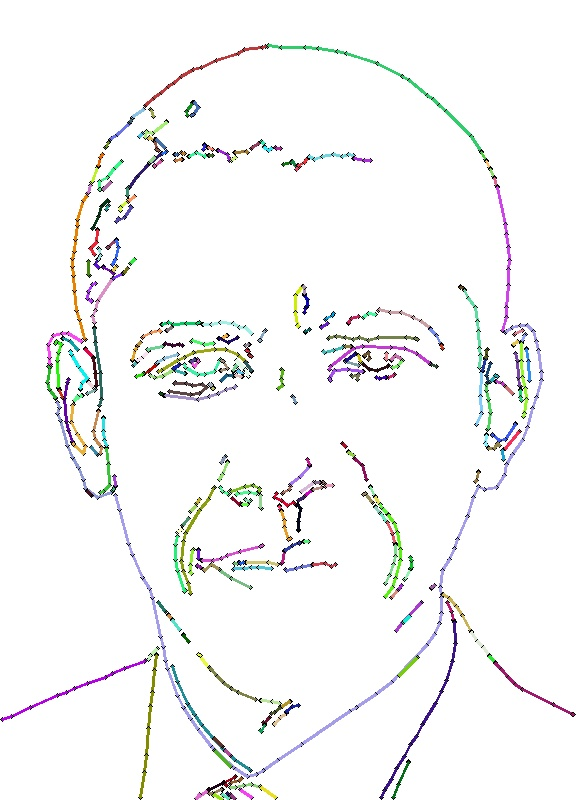
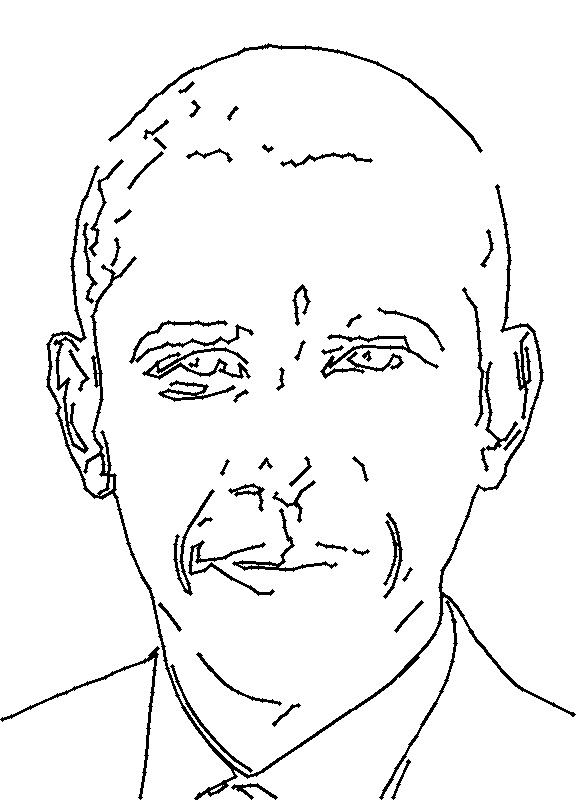
init commit

diff --git a/main.py b/main.py
@@ -9,7 +9,7 @@ def main():
     import gantry
     import pickle
     import time
-    askswait = 0
+    askswait = 1
     behind = 0
 
 
@@ -103,12 +103,10 @@ def main():
     #     segments = pickle.load(file)
     #     # print(segments)
 
-
-
-    segments, freq = segments, freq = process_face("img.png", blur_radius = 17, lower_thresh = 0,
-    upper_thresh = 40, splitDistance = 10, areaCut = 4,
-    minSegmentLen = 15, max_accel = 40, max_lr = 1, turn_vel_multiplier = 1,
-    freq = 120)
+    segments, freq = process_face("small_obama.jpg", blur_radius=11, lower_thresh=10,
+                                  upper_thresh=50, segmentSplitDistance=15, areaCut=3,
+                                  minNumPixels=15, max_accel=20, max_lr=1, turn_vel_multiplier=1, freq=120,
+                                  plot_steps=False)
 
 
     gantry = gantry.Gantry()
@@ -120,6 +118,8 @@ def main():
     #     gantry.set_pos_noblock(z=float(input()))
 
     pen_up()
+
+    gantry.dump_errors()
 
     #the only way python will do this (our codebase does not support if statements)
     try:

diff --git a/face_full_processing.py b/face_full_processing.py
@@ -189,7 +189,8 @@ def process_face(filename, blur_radius = 17, lower_thresh = 0,
     while i < len(segments)-2:
         i+=1
         if distance(*segments[i-1][-1], *segments[i][0]) < segmentSplitDistance:
-            segments[i-1:i+1] = [segm]
+            segments[i-1:i+1] = [segments[i-1] + segments[i]]
+            i-=1
 
 
     while True:
@@ -217,8 +218,8 @@ def process_face(filename, blur_radius = 17, lower_thresh = 0,
 
     for seg in segments:
 
-        color = tuple(rd.randrange(0,255) for i in range(3))
-        # color = (0,0,0)
+        # color = tuple(rd.randrange(0,255) for i in range(3))
+        color = (0,0,0)
 
         i = 0
         for i in range(len(seg)-1):

diff --git a/preview.py b/preview.py
@@ -2,6 +2,6 @@ from face_full_processing import process_face, plot_path_full
 
 
 segments, freq = process_face("small_obama.jpg", blur_radius = 11, lower_thresh = 10,
-        upper_thresh = 60, splitDistance = 1.5, areaCut = 3,
-        minSegmentLen = 5, max_accel = 40, max_lr = 1, turn_vel_multiplier = 1, freq = 120, plot_steps = True)
-# plot_path_full(segments)
+        upper_thresh = 50, segmentSplitDistance=15, areaCut = 3,
+        minNumPixels = 15, max_accel = 40, max_lr = 1, turn_vel_multiplier = 1, freq = 120, plot_steps = False)
+plot_path_full(segments)

diff --git a/odriveresetter.py b/odriveresetter.py
@@ -54,7 +54,7 @@ odrv1.axis1.config.startup_encoder_offset_calibration = True
 odrv1.axis0.config.startup_closed_loop_control = True
 odrv1.axis1.config.startup_closed_loop_control = True
 
-time.sleep(30)
+time.sleep(5)
 
 try:
     odrv0.save_configuration()
